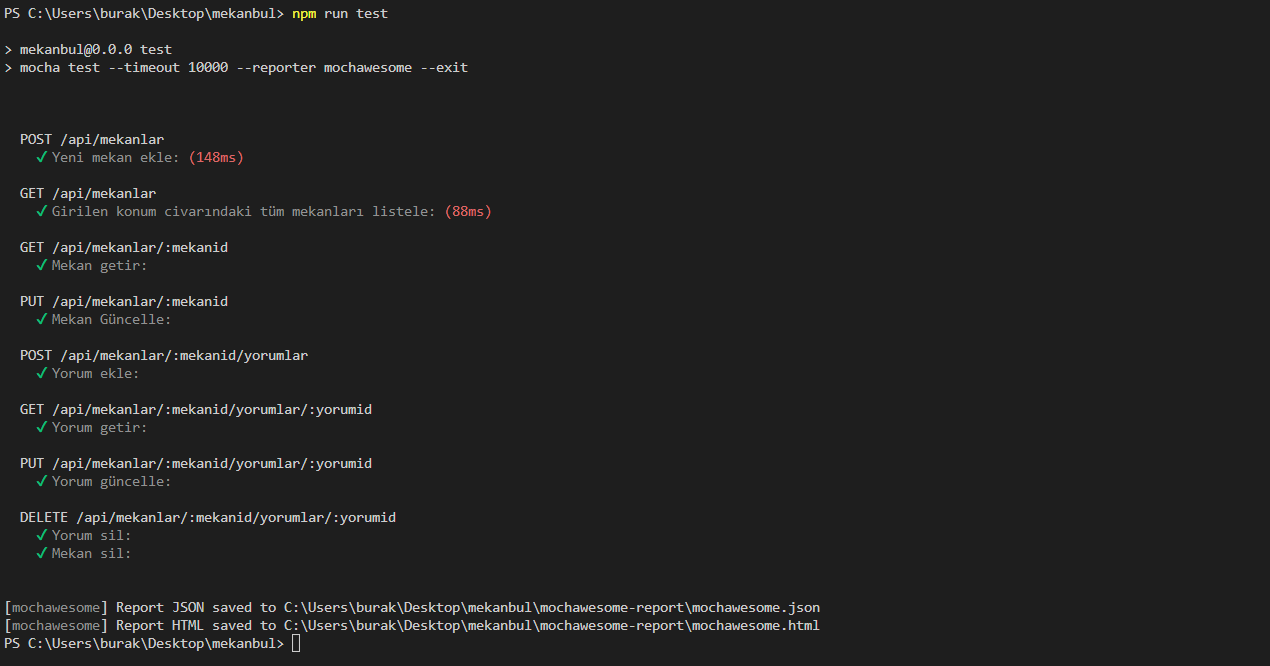
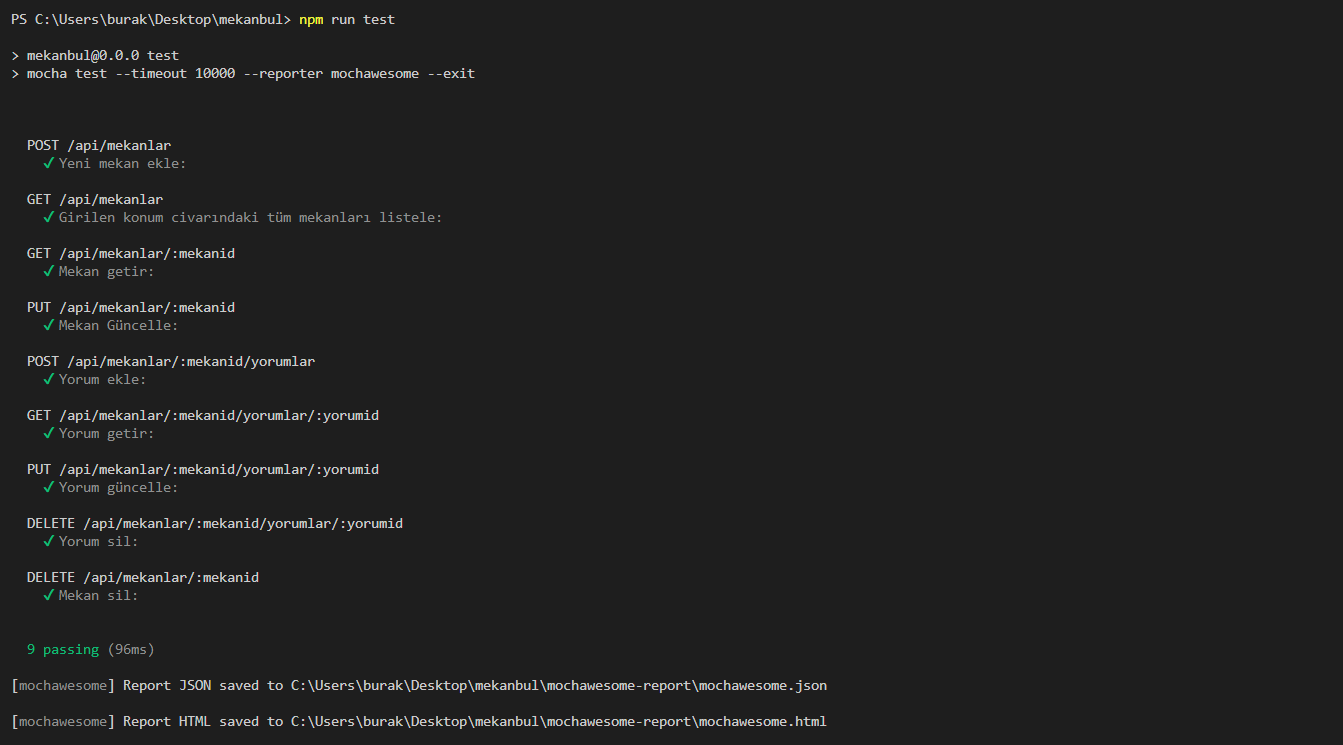
odev6

diff --git a/mochawesome-report/mochawesome.html b/mochawesome-report/mochawesome.html
@@ -1,2 +1,2 @@
 <!doctype html>
-<html lang="en"><head><meta charSet="utf-8"/><meta http-equiv="X-UA-Compatible" content="IE=edge"/><meta name="viewport" content="width=device-width, initial-scale=1"/><title>Mochawesome Report</title><link rel="stylesheet" href="assets\app.css"/></head><body data-raw="{&quot;stats&quot;:{&quot;suites&quot;:9,&quot;tests&quot;:9,&quot;passes&quot;:9,&quot;pending&quot;:0,&quot;failures&quot;:0,&quot;start&quot;:&quot;2022-11-26T20:56:56.320Z&quot;,&quot;end&quot;:&quot;2022-11-26T20:56:56.723Z&quot;,&quot;duration&quot;:403,&quot;testsRegistered&quot;:9,&quot;passPercent&quot;:100,&quot;pendingPercent&quot;:0,&quot;other&quot;:0,&quot;hasOther&quot;:false,&quot;skipped&quot;:0,&quot;hasSkipped&quot;:false},&quot;results&quot;:[{&quot;uuid&quot;:&quot;34e61f3f-44d5-4ea7-9067-2d075601692c&quot;,&quot;title&quot;:&quot;&quot;,&quot;fullFile&quot;:&quot;&quot;,&quot;file&quot;:&quot;&quot;,&quot;beforeHooks&quot;:[],&quot;afterHooks&quot;:[{&quot;title&quot;:&quot;\&quot;after all\&quot; hook in \&quot;{root}\&quot;&quot;,&quot;fullTitle&quot;:&quot;\&quot;after all\&quot; hook in \&quot;{root}\&quot;&quot;,&quot;timedOut&quot;:false,&quot;duration&quot;:0,&quot;pass&quot;:false,&quot;fail&quot;:false,&quot;pending&quot;:false,&quot;code&quot;:&quot;done();&quot;,&quot;err&quot;:{},&quot;uuid&quot;:&quot;5c890c6b-f9fb-4a4c-a901-0ae5f942bb65&quot;,&quot;parentUUID&quot;:&quot;34e61f3f-44d5-4ea7-9067-2d075601692c&quot;,&quot;isHook&quot;:true,&quot;skipped&quot;:false}],&quot;tests&quot;:[],&quot;suites&quot;:[{&quot;uuid&quot;:&quot;f4c015e0-8572-41d4-9fab-8aec1333ab47&quot;,&quot;title&quot;:&quot;POST /api/mekanlar&quot;,&quot;fullFile&quot;:&quot;C:\\Users\\burak\\Desktop\\mekanbul\\test.js&quot;,&quot;file&quot;:&quot;\\test.js&quot;,&quot;beforeHooks&quot;:[],&quot;afterHooks&quot;:[],&quot;tests&quot;:[{&quot;title&quot;:&quot;Yeni mekan ekle:&quot;,&quot;fullTitle&quot;:&quot;POST /api/mekanlar Yeni mekan ekle:&quot;,&quot;timedOut&quot;:false,&quot;duration&quot;:148,&quot;state&quot;:&quot;passed&quot;,&quot;speed&quot;:&quot;slow&quot;,&quot;pass&quot;:true,&quot;fail&quot;:false,&quot;pending&quot;:false,&quot;code&quot;:&quot;const response = await request.post(\&quot;/api/mekanlar\&quot;).send({\n  ad: \&quot;Starbucks\&quot;,\n  adres: \&quot;Centrum Garden\&quot;,\n  puan: 5,\n  imkanlar: \&quot;çay,kahve,pasta\&quot;,\n  enlem: 37.83226584629666,\n  boylam: 30.524732239878013,\n  gunler1: \&quot;Pazartesi-Cuma\&quot;,\n  acilis1: \&quot;9:00\&quot;,\n  kapanis1: \&quot;23:00\&quot;,\n  kapali1: false,\n  gunler2: \&quot;Cumartesi-Pazar\&quot;,\n  acilis2: \&quot;11:00\&quot;,\n  kapanis2: \&quot;17:00\&quot;,\n  kapali2: false,\n});\nexpect(response.status).to.eql(201);\nprocess.env.mekanid = response.body._id;&quot;,&quot;err&quot;:{},&quot;uuid&quot;:&quot;a7ffd154-9561-45e3-a937-01e1f7ece238&quot;,&quot;parentUUID&quot;:&quot;f4c015e0-8572-41d4-9fab-8aec1333ab47&quot;,&quot;isHook&quot;:false,&quot;skipped&quot;:false}],&quot;suites&quot;:[],&quot;passes&quot;:[&quot;a7ffd154-9561-45e3-a937-01e1f7ece238&quot;],&quot;failures&quot;:[],&quot;pending&quot;:[],&quot;skipped&quot;:[],&quot;duration&quot;:148,&quot;root&quot;:false,&quot;rootEmpty&quot;:false,&quot;_timeout&quot;:10000},{&quot;uuid&quot;:&quot;60758d0d-d848-4a62-b05b-a287ff86708d&quot;,&quot;title&quot;:&quot;GET /api/mekanlar&quot;,&quot;fullFile&quot;:&quot;C:\\Users\\burak\\Desktop\\mekanbul\\test.js&quot;,&quot;file&quot;:&quot;\\test.js&quot;,&quot;beforeHooks&quot;:[],&quot;afterHooks&quot;:[],&quot;tests&quot;:[{&quot;title&quot;:&quot;Girilen konum civarındaki tüm mekanları listele:&quot;,&quot;fullTitle&quot;:&quot;GET /api/mekanlar Girilen konum civarındaki tüm mekanları listele:&quot;,&quot;timedOut&quot;:false,&quot;duration&quot;:88,&quot;state&quot;:&quot;passed&quot;,&quot;speed&quot;:&quot;slow&quot;,&quot;pass&quot;:true,&quot;fail&quot;:false,&quot;pending&quot;:false,&quot;code&quot;:&quot;const response = await request.get(\&quot;/api/mekanlar?enlem=37&amp;boylam=35\&quot;);\nexpect(response.status).to.eql(200);&quot;,&quot;err&quot;:{},&quot;uuid&quot;:&quot;eb846893-ba59-4ab6-bdc3-fd59ec794ca1&quot;,&quot;parentUUID&quot;:&quot;60758d0d-d848-4a62-b05b-a287ff86708d&quot;,&quot;isHook&quot;:false,&quot;skipped&quot;:false}],&quot;suites&quot;:[],&quot;passes&quot;:[&quot;eb846893-ba59-4ab6-bdc3-fd59ec794ca1&quot;],&quot;failures&quot;:[],&quot;pending&quot;:[],&quot;skipped&quot;:[],&quot;duration&quot;:88,&quot;root&quot;:false,&quot;rootEmpty&quot;:false,&quot;_timeout&quot;:10000},{&quot;uuid&quot;:&quot;0fbc9f35-88c6-42c2-a60d-e278b5861549&quot;,&quot;title&quot;:&quot;GET /api/mekanlar/:mekanid&quot;,&quot;fullFile&quot;:&quot;C:\\Users\\burak\\Desktop\\mekanbul\\test.js&quot;,&quot;file&quot;:&quot;\\test.js&quot;,&quot;beforeHooks&quot;:[],&quot;afterHooks&quot;:[],&quot;tests&quot;:[{&quot;title&quot;:&quot;Mekan getir:&quot;,&quot;fullTitle&quot;:&quot;GET /api/mekanlar/:mekanid Mekan getir:&quot;,&quot;timedOut&quot;:false,&quot;duration&quot;:28,&quot;state&quot;:&quot;passed&quot;,&quot;speed&quot;:&quot;fast&quot;,&quot;pass&quot;:true,&quot;fail&quot;:false,&quot;pending&quot;:false,&quot;code&quot;:&quot;const response = await request.get(`/api/mekanlar/${process.env.mekanid}`);\nexpect(response.status).to.eql(200);&quot;,&quot;err&quot;:{},&quot;uuid&quot;:&quot;2ebca0b3-8e61-475c-93f2-85a8fd9dcdcf&quot;,&quot;parentUUID&quot;:&quot;0fbc9f35-88c6-42c2-a60d-e278b5861549&quot;,&quot;isHook&quot;:false,&quot;skipped&quot;:false}],&quot;suites&quot;:[],&quot;passes&quot;:[&quot;2ebca0b3-8e61-475c-93f2-85a8fd9dcdcf&quot;],&quot;failures&quot;:[],&quot;pending&quot;:[],&quot;skipped&quot;:[],&quot;duration&quot;:28,&quot;root&quot;:false,&quot;rootEmpty&quot;:false,&quot;_timeout&quot;:10000},{&quot;uuid&quot;:&quot;91e1d9c2-f25d-4f1b-a22b-bb5af435f541&quot;,&quot;title&quot;:&quot;PUT /api/mekanlar/:mekanid&quot;,&quot;fullFile&quot;:&quot;C:\\Users\\burak\\Desktop\\mekanbul\\test.js&quot;,&quot;file&quot;:&quot;\\test.js&quot;,&quot;beforeHooks&quot;:[],&quot;afterHooks&quot;:[],&quot;tests&quot;:[{&quot;title&quot;:&quot;Mekan Güncelle:&quot;,&quot;fullTitle&quot;:&quot;PUT /api/mekanlar/:mekanid Mekan Güncelle:&quot;,&quot;timedOut&quot;:false,&quot;duration&quot;:31,&quot;state&quot;:&quot;passed&quot;,&quot;speed&quot;:&quot;fast&quot;,&quot;pass&quot;:true,&quot;fail&quot;:false,&quot;pending&quot;:false,&quot;code&quot;:&quot;const response = await request\n  .put(`/api/mekanlar/${process.env.mekanid}`)\n  .send({\n    ad: \&quot;Starbucks SDÜ\&quot;,\n    adres: \&quot;SDÜ Doğu Kampüsü\&quot;,\n    puan: 3,\n    imkanlar: \&quot;çay,kahve,pasta,refresher\&quot;,\n    enlem: 37.8,\n    boylam: 30.5,\n    gunler1: \&quot;Pazartesi-Cuma\&quot;,\n    acilis1: \&quot;9:10\&quot;,\n    kapanis1: \&quot;23:10\&quot;,\n    kapali1: true,\n    gunler2: \&quot;Cumartesi-Pazar\&quot;,\n    acilis2: \&quot;11:10\&quot;,\n    kapanis2: \&quot;17:10\&quot;,\n    kapali2: true,\n  });\nexpect(response.status).to.eql(200);&quot;,&quot;err&quot;:{},&quot;uuid&quot;:&quot;c8c64f44-95c7-46fa-8c82-56cadd54a5b2&quot;,&quot;parentUUID&quot;:&quot;91e1d9c2-f25d-4f1b-a22b-bb5af435f541&quot;,&quot;isHook&quot;:false,&quot;skipped&quot;:false}],&quot;suites&quot;:[],&quot;passes&quot;:[&quot;c8c64f44-95c7-46fa-8c82-56cadd54a5b2&quot;],&quot;failures&quot;:[],&quot;pending&quot;:[],&quot;skipped&quot;:[],&quot;duration&quot;:31,&quot;root&quot;:false,&quot;rootEmpty&quot;:false,&quot;_timeout&quot;:10000},{&quot;uuid&quot;:&quot;7392dcf2-3845-450c-b7ab-8a05435781e4&quot;,&quot;title&quot;:&quot;POST /api/mekanlar/:mekanid/yorumlar&quot;,&quot;fullFile&quot;:&quot;C:\\Users\\burak\\Desktop\\mekanbul\\test.js&quot;,&quot;file&quot;:&quot;\\test.js&quot;,&quot;beforeHooks&quot;:[],&quot;afterHooks&quot;:[],&quot;tests&quot;:[{&quot;title&quot;:&quot;Yorum ekle:&quot;,&quot;fullTitle&quot;:&quot;POST /api/mekanlar/:mekanid/yorumlar Yorum ekle:&quot;,&quot;timedOut&quot;:false,&quot;duration&quot;:17,&quot;state&quot;:&quot;passed&quot;,&quot;speed&quot;:&quot;fast&quot;,&quot;pass&quot;:true,&quot;fail&quot;:false,&quot;pending&quot;:false,&quot;code&quot;:&quot;const response = await request\n  .post(`/api/mekanlar/${process.env.mekanid}/yorumlar`)\n  .send({\n    yorumYapan: \&quot;ASY\&quot;,\n    puan: 5,\n    yorumMetni: \&quot;Kahveler harika\&quot;,\n  });\nprocess.env.yorumid = response.body._id;\nexpect(response.status).to.eql(201);&quot;,&quot;err&quot;:{},&quot;uuid&quot;:&quot;7726f4a7-fe1d-4290-987c-d4a907256380&quot;,&quot;parentUUID&quot;:&quot;7392dcf2-3845-450c-b7ab-8a05435781e4&quot;,&quot;isHook&quot;:false,&quot;skipped&quot;:false}],&quot;suites&quot;:[],&quot;passes&quot;:[&quot;7726f4a7-fe1d-4290-987c-d4a907256380&quot;],&quot;failures&quot;:[],&quot;pending&quot;:[],&quot;skipped&quot;:[],&quot;duration&quot;:17,&quot;root&quot;:false,&quot;rootEmpty&quot;:false,&quot;_timeout&quot;:10000},{&quot;uuid&quot;:&quot;6ef512c4-5fad-4bd8-9b4a-e73ff3ac557c&quot;,&quot;title&quot;:&quot;GET /api/mekanlar/:mekanid/yorumlar/:yorumid&quot;,&quot;fullFile&quot;:&quot;C:\\Users\\burak\\Desktop\\mekanbul\\test.js&quot;,&quot;file&quot;:&quot;\\test.js&quot;,&quot;beforeHooks&quot;:[],&quot;afterHooks&quot;:[],&quot;tests&quot;:[{&quot;title&quot;:&quot;Yorum getir:&quot;,&quot;fullTitle&quot;:&quot;GET /api/mekanlar/:mekanid/yorumlar/:yorumid Yorum getir:&quot;,&quot;timedOut&quot;:false,&quot;duration&quot;:15,&quot;state&quot;:&quot;passed&quot;,&quot;speed&quot;:&quot;fast&quot;,&quot;pass&quot;:true,&quot;fail&quot;:false,&quot;pending&quot;:false,&quot;code&quot;:&quot;const response = await request.get(\n  `/api/mekanlar/${process.env.mekanid}/yorumlar/${process.env.yorumid}`\n);\nexpect(response.status).to.eql(200);&quot;,&quot;err&quot;:{},&quot;uuid&quot;:&quot;ada0f33e-adf7-473b-ad58-0a07c4e4f2b3&quot;,&quot;parentUUID&quot;:&quot;6ef512c4-5fad-4bd8-9b4a-e73ff3ac557c&quot;,&quot;isHook&quot;:false,&quot;skipped&quot;:false}],&quot;suites&quot;:[],&quot;passes&quot;:[&quot;ada0f33e-adf7-473b-ad58-0a07c4e4f2b3&quot;],&quot;failures&quot;:[],&quot;pending&quot;:[],&quot;skipped&quot;:[],&quot;duration&quot;:15,&quot;root&quot;:false,&quot;rootEmpty&quot;:false,&quot;_timeout&quot;:10000},{&quot;uuid&quot;:&quot;a9def962-9758-456a-9bda-bc866ab40f49&quot;,&quot;title&quot;:&quot;PUT /api/mekanlar/:mekanid/yorumlar/:yorumid&quot;,&quot;fullFile&quot;:&quot;C:\\Users\\burak\\Desktop\\mekanbul\\test.js&quot;,&quot;file&quot;:&quot;\\test.js&quot;,&quot;beforeHooks&quot;:[],&quot;afterHooks&quot;:[],&quot;tests&quot;:[{&quot;title&quot;:&quot;Yorum güncelle:&quot;,&quot;fullTitle&quot;:&quot;PUT /api/mekanlar/:mekanid/yorumlar/:yorumid Yorum güncelle:&quot;,&quot;timedOut&quot;:false,&quot;duration&quot;:13,&quot;state&quot;:&quot;passed&quot;,&quot;speed&quot;:&quot;fast&quot;,&quot;pass&quot;:true,&quot;fail&quot;:false,&quot;pending&quot;:false,&quot;code&quot;:&quot;const response = await request\n  .put(\n    `/api/mekanlar/${process.env.mekanid}/yorumlar/${process.env.yorumid}`\n  )\n  .send({\n    yorumYapan: \&quot;Sinan\&quot;,\n    puan: 4,\n    yorumMetni: \&quot;Kahveler harikaaaa\&quot;,\n  });\nexpect(response.status).to.eql(200);&quot;,&quot;err&quot;:{},&quot;uuid&quot;:&quot;715f0051-b7e3-4a60-b05f-65b7a3c74921&quot;,&quot;parentUUID&quot;:&quot;a9def962-9758-456a-9bda-bc866ab40f49&quot;,&quot;isHook&quot;:false,&quot;skipped&quot;:false}],&quot;suites&quot;:[],&quot;passes&quot;:[&quot;715f0051-b7e3-4a60-b05f-65b7a3c74921&quot;],&quot;failures&quot;:[],&quot;pending&quot;:[],&quot;skipped&quot;:[],&quot;duration&quot;:13,&quot;root&quot;:false,&quot;rootEmpty&quot;:false,&quot;_timeout&quot;:10000},{&quot;uuid&quot;:&quot;714129be-8d72-4473-9ee7-cff5075605c8&quot;,&quot;title&quot;:&quot;DELETE /api/mekanlar/:mekanid/yorumlar/:yorumid&quot;,&quot;fullFile&quot;:&quot;C:\\Users\\burak\\Desktop\\mekanbul\\test.js&quot;,&quot;file&quot;:&quot;\\test.js&quot;,&quot;beforeHooks&quot;:[],&quot;afterHooks&quot;:[],&quot;tests&quot;:[{&quot;title&quot;:&quot;Yorum sil:&quot;,&quot;fullTitle&quot;:&quot;DELETE /api/mekanlar/:mekanid/yorumlar/:yorumid Yorum sil:&quot;,&quot;timedOut&quot;:false,&quot;duration&quot;:17,&quot;state&quot;:&quot;passed&quot;,&quot;speed&quot;:&quot;fast&quot;,&quot;pass&quot;:true,&quot;fail&quot;:false,&quot;pending&quot;:false,&quot;code&quot;:&quot;const response = await request.delete(\n  `/api/mekanlar/${process.env.mekanid}/yorumlar/${process.env.yorumid}`\n);\nexpect(response.status).to.eql(200);&quot;,&quot;err&quot;:{},&quot;uuid&quot;:&quot;aca8cf63-d23f-4dd1-a53b-e01d394636e6&quot;,&quot;parentUUID&quot;:&quot;714129be-8d72-4473-9ee7-cff5075605c8&quot;,&quot;isHook&quot;:false,&quot;skipped&quot;:false}],&quot;suites&quot;:[],&quot;passes&quot;:[&quot;aca8cf63-d23f-4dd1-a53b-e01d394636e6&quot;],&quot;failures&quot;:[],&quot;pending&quot;:[],&quot;skipped&quot;:[],&quot;duration&quot;:17,&quot;root&quot;:false,&quot;rootEmpty&quot;:false,&quot;_timeout&quot;:10000},{&quot;uuid&quot;:&quot;6a613a49-5b63-4a3a-bbfc-c679bceace08&quot;,&quot;title&quot;:&quot;DELETE /api/mekanlar/:mekanid&quot;,&quot;fullFile&quot;:&quot;C:\\Users\\burak\\Desktop\\mekanbul\\test.js&quot;,&quot;file&quot;:&quot;\\test.js&quot;,&quot;beforeHooks&quot;:[],&quot;afterHooks&quot;:[],&quot;tests&quot;:[{&quot;title&quot;:&quot;Mekan sil:&quot;,&quot;fullTitle&quot;:&quot;DELETE /api/mekanlar/:mekanid Mekan sil:&quot;,&quot;timedOut&quot;:false,&quot;duration&quot;:15,&quot;state&quot;:&quot;passed&quot;,&quot;speed&quot;:&quot;fast&quot;,&quot;pass&quot;:true,&quot;fail&quot;:false,&quot;pending&quot;:false,&quot;code&quot;:&quot;const response = await request.delete(\n  `/api/mekanlar/${process.env.mekanid}`\n);\nexpect(response.status).to.eql(200);&quot;,&quot;err&quot;:{},&quot;uuid&quot;:&quot;1bc56d74-c4be-4c67-99a3-8e12e19d6796&quot;,&quot;parentUUID&quot;:&quot;6a613a49-5b63-4a3a-bbfc-c679bceace08&quot;,&quot;isHook&quot;:false,&quot;skipped&quot;:false}],&quot;suites&quot;:[],&quot;passes&quot;:[&quot;1bc56d74-c4be-4c67-99a3-8e12e19d6796&quot;],&quot;failures&quot;:[],&quot;pending&quot;:[],&quot;skipped&quot;:[],&quot;duration&quot;:15,&quot;root&quot;:false,&quot;rootEmpty&quot;:false,&quot;_timeout&quot;:10000}],&quot;passes&quot;:[],&quot;failures&quot;:[],&quot;pending&quot;:[],&quot;skipped&quot;:[],&quot;duration&quot;:0,&quot;root&quot;:true,&quot;rootEmpty&quot;:true,&quot;_timeout&quot;:10000}],&quot;meta&quot;:{&quot;mocha&quot;:{&quot;version&quot;:&quot;10.1.0&quot;},&quot;mochawesome&quot;:{&quot;options&quot;:{&quot;quiet&quot;:false,&quot;reportFilename&quot;:&quot;mochawesome&quot;,&quot;saveHtml&quot;:true,&quot;saveJson&quot;:true,&quot;consoleReporter&quot;:&quot;spec&quot;,&quot;useInlineDiffs&quot;:false,&quot;code&quot;:true},&quot;version&quot;:&quot;7.1.3&quot;},&quot;marge&quot;:{&quot;version&quot;:&quot;6.2.0&quot;}}}" data-config="{&quot;reportFilename&quot;:&quot;mochawesome&quot;,&quot;reportDir&quot;:&quot;mochawesome-report&quot;,&quot;reportTitle&quot;:&quot;mekanbul&quot;,&quot;reportPageTitle&quot;:&quot;Mochawesome Report&quot;,&quot;inline&quot;:false,&quot;inlineAssets&quot;:false,&quot;cdn&quot;:false,&quot;charts&quot;:false,&quot;enableCharts&quot;:false,&quot;code&quot;:true,&quot;enableCode&quot;:true,&quot;autoOpen&quot;:false,&quot;overwrite&quot;:true,&quot;timestamp&quot;:false,&quot;ts&quot;:false,&quot;showPassed&quot;:true,&quot;showFailed&quot;:true,&quot;showPending&quot;:true,&quot;showSkipped&quot;:false,&quot;showHooks&quot;:&quot;failed&quot;,&quot;saveJson&quot;:true,&quot;saveHtml&quot;:true,&quot;dev&quot;:false,&quot;assetsDir&quot;:&quot;mochawesome-report\\assets&quot;,&quot;jsonFile&quot;:&quot;C:\\Users\\burak\\Desktop\\mekanbul\\mochawesome-report\\mochawesome.json&quot;,&quot;htmlFile&quot;:&quot;C:\\Users\\burak\\Desktop\\mekanbul\\mochawesome-report\\mochawesome.html&quot;}"><div id="report"></div><script src="assets\app.js"></script></body></html>
+<html lang="en"><head><meta charSet="utf-8"/><meta http-equiv="X-UA-Compatible" content="IE=edge"/><meta name="viewport" content="width=device-width, initial-scale=1"/><title>Mochawesome Report</title><link rel="stylesheet" href="assets\app.css"/></head><body data-raw="{&quot;stats&quot;:{&quot;suites&quot;:9,&quot;tests&quot;:9,&quot;passes&quot;:9,&quot;pending&quot;:0,&quot;failures&quot;:0,&quot;start&quot;:&quot;2022-11-26T22:17:13.871Z&quot;,&quot;end&quot;:&quot;2022-11-26T22:17:13.967Z&quot;,&quot;duration&quot;:96,&quot;testsRegistered&quot;:9,&quot;passPercent&quot;:100,&quot;pendingPercent&quot;:0,&quot;other&quot;:0,&quot;hasOther&quot;:false,&quot;skipped&quot;:0,&quot;hasSkipped&quot;:false},&quot;results&quot;:[{&quot;uuid&quot;:&quot;38cae508-f0c8-4382-85b5-db4a34dcbb6f&quot;,&quot;title&quot;:&quot;&quot;,&quot;fullFile&quot;:&quot;&quot;,&quot;file&quot;:&quot;&quot;,&quot;beforeHooks&quot;:[],&quot;afterHooks&quot;:[{&quot;title&quot;:&quot;\&quot;after all\&quot; hook in \&quot;{root}\&quot;&quot;,&quot;fullTitle&quot;:&quot;\&quot;after all\&quot; hook in \&quot;{root}\&quot;&quot;,&quot;timedOut&quot;:false,&quot;duration&quot;:1,&quot;pass&quot;:false,&quot;fail&quot;:false,&quot;pending&quot;:false,&quot;code&quot;:&quot;done();&quot;,&quot;err&quot;:{},&quot;uuid&quot;:&quot;818f001e-152f-4aab-94fc-fe0a1640f250&quot;,&quot;parentUUID&quot;:&quot;38cae508-f0c8-4382-85b5-db4a34dcbb6f&quot;,&quot;isHook&quot;:true,&quot;skipped&quot;:false}],&quot;tests&quot;:[],&quot;suites&quot;:[{&quot;uuid&quot;:&quot;b216f4e0-9f5d-405d-99b0-8db1f0722a14&quot;,&quot;title&quot;:&quot;POST /api/mekanlar&quot;,&quot;fullFile&quot;:&quot;C:\\Users\\burak\\Desktop\\mekanbul\\test.js&quot;,&quot;file&quot;:&quot;\\test.js&quot;,&quot;beforeHooks&quot;:[],&quot;afterHooks&quot;:[],&quot;tests&quot;:[{&quot;title&quot;:&quot;Yeni mekan ekle:&quot;,&quot;fullTitle&quot;:&quot;POST /api/mekanlar Yeni mekan ekle:&quot;,&quot;timedOut&quot;:false,&quot;duration&quot;:28,&quot;state&quot;:&quot;passed&quot;,&quot;speed&quot;:&quot;fast&quot;,&quot;pass&quot;:true,&quot;fail&quot;:false,&quot;pending&quot;:false,&quot;code&quot;:&quot;const response = await request.post(\&quot;/api/mekanlar\&quot;).send({\n  ad: \&quot;Starbucks\&quot;,\n  adres: \&quot;Centrum Garden\&quot;,\n  puan: 5,\n  imkanlar: \&quot;çay,kahve,pasta\&quot;,\n  enlem: 37.83226584629666,\n  boylam: 30.524732239878013,\n  gunler1: \&quot;Pazartesi-Cuma\&quot;,\n  acilis1: \&quot;9:00\&quot;,\n  kapanis1: \&quot;23:00\&quot;,\n  kapali1: false,\n  gunler2: \&quot;Cumartesi-Pazar\&quot;,\n  acilis2: \&quot;11:00\&quot;,\n  kapanis2: \&quot;17:00\&quot;,\n  kapali2: false,\n});\nexpect(response.status).to.eql(201);\nprocess.env.mekanid = response.body._id;&quot;,&quot;err&quot;:{},&quot;uuid&quot;:&quot;5d582b40-f73c-481f-8b1a-af11070c9cf0&quot;,&quot;parentUUID&quot;:&quot;b216f4e0-9f5d-405d-99b0-8db1f0722a14&quot;,&quot;isHook&quot;:false,&quot;skipped&quot;:false}],&quot;suites&quot;:[],&quot;passes&quot;:[&quot;5d582b40-f73c-481f-8b1a-af11070c9cf0&quot;],&quot;failures&quot;:[],&quot;pending&quot;:[],&quot;skipped&quot;:[],&quot;duration&quot;:28,&quot;root&quot;:false,&quot;rootEmpty&quot;:false,&quot;_timeout&quot;:10000},{&quot;uuid&quot;:&quot;b0bdf52f-c661-4d3f-b23e-cf60c6ee1645&quot;,&quot;title&quot;:&quot;GET /api/mekanlar&quot;,&quot;fullFile&quot;:&quot;C:\\Users\\burak\\Desktop\\mekanbul\\test.js&quot;,&quot;file&quot;:&quot;\\test.js&quot;,&quot;beforeHooks&quot;:[],&quot;afterHooks&quot;:[],&quot;tests&quot;:[{&quot;title&quot;:&quot;Girilen konum civarındaki tüm mekanları listele:&quot;,&quot;fullTitle&quot;:&quot;GET /api/mekanlar Girilen konum civarındaki tüm mekanları listele:&quot;,&quot;timedOut&quot;:false,&quot;duration&quot;:8,&quot;state&quot;:&quot;passed&quot;,&quot;speed&quot;:&quot;fast&quot;,&quot;pass&quot;:true,&quot;fail&quot;:false,&quot;pending&quot;:false,&quot;code&quot;:&quot;const response = await request.get(\&quot;/api/mekanlar?enlem=37&amp;boylam=35\&quot;);\nexpect(response.status).to.eql(200);&quot;,&quot;err&quot;:{},&quot;uuid&quot;:&quot;1b50ec3a-4443-4330-b372-d345cd0e4536&quot;,&quot;parentUUID&quot;:&quot;b0bdf52f-c661-4d3f-b23e-cf60c6ee1645&quot;,&quot;isHook&quot;:false,&quot;skipped&quot;:false}],&quot;suites&quot;:[],&quot;passes&quot;:[&quot;1b50ec3a-4443-4330-b372-d345cd0e4536&quot;],&quot;failures&quot;:[],&quot;pending&quot;:[],&quot;skipped&quot;:[],&quot;duration&quot;:8,&quot;root&quot;:false,&quot;rootEmpty&quot;:false,&quot;_timeout&quot;:10000},{&quot;uuid&quot;:&quot;204fe498-6edf-4c90-bf6e-8c637634ec0f&quot;,&quot;title&quot;:&quot;GET /api/mekanlar/:mekanid&quot;,&quot;fullFile&quot;:&quot;C:\\Users\\burak\\Desktop\\mekanbul\\test.js&quot;,&quot;file&quot;:&quot;\\test.js&quot;,&quot;beforeHooks&quot;:[],&quot;afterHooks&quot;:[],&quot;tests&quot;:[{&quot;title&quot;:&quot;Mekan getir:&quot;,&quot;fullTitle&quot;:&quot;GET /api/mekanlar/:mekanid Mekan getir:&quot;,&quot;timedOut&quot;:false,&quot;duration&quot;:4,&quot;state&quot;:&quot;passed&quot;,&quot;speed&quot;:&quot;fast&quot;,&quot;pass&quot;:true,&quot;fail&quot;:false,&quot;pending&quot;:false,&quot;code&quot;:&quot;const response = await request.get(`/api/mekanlar/${process.env.mekanid}`);\nexpect(response.status).to.eql(200);&quot;,&quot;err&quot;:{},&quot;uuid&quot;:&quot;0ea3912e-4791-4cfa-bb61-c469eaae343d&quot;,&quot;parentUUID&quot;:&quot;204fe498-6edf-4c90-bf6e-8c637634ec0f&quot;,&quot;isHook&quot;:false,&quot;skipped&quot;:false}],&quot;suites&quot;:[],&quot;passes&quot;:[&quot;0ea3912e-4791-4cfa-bb61-c469eaae343d&quot;],&quot;failures&quot;:[],&quot;pending&quot;:[],&quot;skipped&quot;:[],&quot;duration&quot;:4,&quot;root&quot;:false,&quot;rootEmpty&quot;:false,&quot;_timeout&quot;:10000},{&quot;uuid&quot;:&quot;7626d9e2-a9e9-4cee-862c-e6a4b38362e7&quot;,&quot;title&quot;:&quot;PUT /api/mekanlar/:mekanid&quot;,&quot;fullFile&quot;:&quot;C:\\Users\\burak\\Desktop\\mekanbul\\test.js&quot;,&quot;file&quot;:&quot;\\test.js&quot;,&quot;beforeHooks&quot;:[],&quot;afterHooks&quot;:[],&quot;tests&quot;:[{&quot;title&quot;:&quot;Mekan Güncelle:&quot;,&quot;fullTitle&quot;:&quot;PUT /api/mekanlar/:mekanid Mekan Güncelle:&quot;,&quot;timedOut&quot;:false,&quot;duration&quot;:10,&quot;state&quot;:&quot;passed&quot;,&quot;speed&quot;:&quot;fast&quot;,&quot;pass&quot;:true,&quot;fail&quot;:false,&quot;pending&quot;:false,&quot;code&quot;:&quot;const response = await request\n  .put(`/api/mekanlar/${process.env.mekanid}`)\n  .send({\n    ad: \&quot;Starbucks SDÜ\&quot;,\n    adres: \&quot;SDÜ Doğu Kampüsü\&quot;,\n    puan: 3,\n    imkanlar: \&quot;çay,kahve,pasta,refresher\&quot;,\n    enlem: 37.8,\n    boylam: 30.5,\n    gunler1: \&quot;Pazartesi-Cuma\&quot;,\n    acilis1: \&quot;9:10\&quot;,\n    kapanis1: \&quot;23:10\&quot;,\n    kapali1: true,\n    gunler2: \&quot;Cumartesi-Pazar\&quot;,\n    acilis2: \&quot;11:10\&quot;,\n    kapanis2: \&quot;17:10\&quot;,\n    kapali2: true,\n  });\nexpect(response.status).to.eql(200);&quot;,&quot;err&quot;:{},&quot;uuid&quot;:&quot;51755271-90bc-4e11-b398-9f70161bed09&quot;,&quot;parentUUID&quot;:&quot;7626d9e2-a9e9-4cee-862c-e6a4b38362e7&quot;,&quot;isHook&quot;:false,&quot;skipped&quot;:false}],&quot;suites&quot;:[],&quot;passes&quot;:[&quot;51755271-90bc-4e11-b398-9f70161bed09&quot;],&quot;failures&quot;:[],&quot;pending&quot;:[],&quot;skipped&quot;:[],&quot;duration&quot;:10,&quot;root&quot;:false,&quot;rootEmpty&quot;:false,&quot;_timeout&quot;:10000},{&quot;uuid&quot;:&quot;bea4e59f-6ef4-4f20-877b-24dd337ba841&quot;,&quot;title&quot;:&quot;POST /api/mekanlar/:mekanid/yorumlar&quot;,&quot;fullFile&quot;:&quot;C:\\Users\\burak\\Desktop\\mekanbul\\test.js&quot;,&quot;file&quot;:&quot;\\test.js&quot;,&quot;beforeHooks&quot;:[],&quot;afterHooks&quot;:[],&quot;tests&quot;:[{&quot;title&quot;:&quot;Yorum ekle:&quot;,&quot;fullTitle&quot;:&quot;POST /api/mekanlar/:mekanid/yorumlar Yorum ekle:&quot;,&quot;timedOut&quot;:false,&quot;duration&quot;:7,&quot;state&quot;:&quot;passed&quot;,&quot;speed&quot;:&quot;fast&quot;,&quot;pass&quot;:true,&quot;fail&quot;:false,&quot;pending&quot;:false,&quot;code&quot;:&quot;const response = await request\n  .post(`/api/mekanlar/${process.env.mekanid}/yorumlar`)\n  .send({\n    yorumYapan: \&quot;ASY\&quot;,\n    puan: 5,\n    yorumMetni: \&quot;Kahveler harika\&quot;,\n  });\nprocess.env.yorumid = response.body._id;\nexpect(response.status).to.eql(201);&quot;,&quot;err&quot;:{},&quot;uuid&quot;:&quot;43245a16-6e98-40da-945d-6a42a606f9f9&quot;,&quot;parentUUID&quot;:&quot;bea4e59f-6ef4-4f20-877b-24dd337ba841&quot;,&quot;isHook&quot;:false,&quot;skipped&quot;:false}],&quot;suites&quot;:[],&quot;passes&quot;:[&quot;43245a16-6e98-40da-945d-6a42a606f9f9&quot;],&quot;failures&quot;:[],&quot;pending&quot;:[],&quot;skipped&quot;:[],&quot;duration&quot;:7,&quot;root&quot;:false,&quot;rootEmpty&quot;:false,&quot;_timeout&quot;:10000},{&quot;uuid&quot;:&quot;98a75575-5e47-43c7-997d-547944797791&quot;,&quot;title&quot;:&quot;GET /api/mekanlar/:mekanid/yorumlar/:yorumid&quot;,&quot;fullFile&quot;:&quot;C:\\Users\\burak\\Desktop\\mekanbul\\test.js&quot;,&quot;file&quot;:&quot;\\test.js&quot;,&quot;beforeHooks&quot;:[],&quot;afterHooks&quot;:[],&quot;tests&quot;:[{&quot;title&quot;:&quot;Yorum getir:&quot;,&quot;fullTitle&quot;:&quot;GET /api/mekanlar/:mekanid/yorumlar/:yorumid Yorum getir:&quot;,&quot;timedOut&quot;:false,&quot;duration&quot;:5,&quot;state&quot;:&quot;passed&quot;,&quot;speed&quot;:&quot;fast&quot;,&quot;pass&quot;:true,&quot;fail&quot;:false,&quot;pending&quot;:false,&quot;code&quot;:&quot;const response = await request.get(\n  `/api/mekanlar/${process.env.mekanid}/yorumlar/${process.env.yorumid}`\n);\nexpect(response.status).to.eql(200);&quot;,&quot;err&quot;:{},&quot;uuid&quot;:&quot;3843890a-54b2-479a-895a-f3fdc169ccf9&quot;,&quot;parentUUID&quot;:&quot;98a75575-5e47-43c7-997d-547944797791&quot;,&quot;isHook&quot;:false,&quot;skipped&quot;:false}],&quot;suites&quot;:[],&quot;passes&quot;:[&quot;3843890a-54b2-479a-895a-f3fdc169ccf9&quot;],&quot;failures&quot;:[],&quot;pending&quot;:[],&quot;skipped&quot;:[],&quot;duration&quot;:5,&quot;root&quot;:false,&quot;rootEmpty&quot;:false,&quot;_timeout&quot;:10000},{&quot;uuid&quot;:&quot;e13bb13f-9be2-487c-a3e8-d5f4ff32f3fe&quot;,&quot;title&quot;:&quot;PUT /api/mekanlar/:mekanid/yorumlar/:yorumid&quot;,&quot;fullFile&quot;:&quot;C:\\Users\\burak\\Desktop\\mekanbul\\test.js&quot;,&quot;file&quot;:&quot;\\test.js&quot;,&quot;beforeHooks&quot;:[],&quot;afterHooks&quot;:[],&quot;tests&quot;:[{&quot;title&quot;:&quot;Yorum güncelle:&quot;,&quot;fullTitle&quot;:&quot;PUT /api/mekanlar/:mekanid/yorumlar/:yorumid Yorum güncelle:&quot;,&quot;timedOut&quot;:false,&quot;duration&quot;:7,&quot;state&quot;:&quot;passed&quot;,&quot;speed&quot;:&quot;fast&quot;,&quot;pass&quot;:true,&quot;fail&quot;:false,&quot;pending&quot;:false,&quot;code&quot;:&quot;const response = await request\n  .put(\n    `/api/mekanlar/${process.env.mekanid}/yorumlar/${process.env.yorumid}`\n  )\n  .send({\n    yorumYapan: \&quot;Sinan\&quot;,\n    puan: 4,\n    yorumMetni: \&quot;Kahveler harikaaaa\&quot;,\n  });\nexpect(response.status).to.eql(200);&quot;,&quot;err&quot;:{},&quot;uuid&quot;:&quot;a02f91db-bc5b-4006-b017-23b752779bf1&quot;,&quot;parentUUID&quot;:&quot;e13bb13f-9be2-487c-a3e8-d5f4ff32f3fe&quot;,&quot;isHook&quot;:false,&quot;skipped&quot;:false}],&quot;suites&quot;:[],&quot;passes&quot;:[&quot;a02f91db-bc5b-4006-b017-23b752779bf1&quot;],&quot;failures&quot;:[],&quot;pending&quot;:[],&quot;skipped&quot;:[],&quot;duration&quot;:7,&quot;root&quot;:false,&quot;rootEmpty&quot;:false,&quot;_timeout&quot;:10000},{&quot;uuid&quot;:&quot;c3e60a95-d6dc-492b-bc79-9e9d75a36373&quot;,&quot;title&quot;:&quot;DELETE /api/mekanlar/:mekanid/yorumlar/:yorumid&quot;,&quot;fullFile&quot;:&quot;C:\\Users\\burak\\Desktop\\mekanbul\\test.js&quot;,&quot;file&quot;:&quot;\\test.js&quot;,&quot;beforeHooks&quot;:[],&quot;afterHooks&quot;:[],&quot;tests&quot;:[{&quot;title&quot;:&quot;Yorum sil:&quot;,&quot;fullTitle&quot;:&quot;DELETE /api/mekanlar/:mekanid/yorumlar/:yorumid Yorum sil:&quot;,&quot;timedOut&quot;:false,&quot;duration&quot;:7,&quot;state&quot;:&quot;passed&quot;,&quot;speed&quot;:&quot;fast&quot;,&quot;pass&quot;:true,&quot;fail&quot;:false,&quot;pending&quot;:false,&quot;code&quot;:&quot;const response = await request.delete(\n  `/api/mekanlar/${process.env.mekanid}/yorumlar/${process.env.yorumid}`\n);\nexpect(response.status).to.eql(200);&quot;,&quot;err&quot;:{},&quot;uuid&quot;:&quot;741504d8-2497-4915-b231-64b10a79adfb&quot;,&quot;parentUUID&quot;:&quot;c3e60a95-d6dc-492b-bc79-9e9d75a36373&quot;,&quot;isHook&quot;:false,&quot;skipped&quot;:false}],&quot;suites&quot;:[],&quot;passes&quot;:[&quot;741504d8-2497-4915-b231-64b10a79adfb&quot;],&quot;failures&quot;:[],&quot;pending&quot;:[],&quot;skipped&quot;:[],&quot;duration&quot;:7,&quot;root&quot;:false,&quot;rootEmpty&quot;:false,&quot;_timeout&quot;:10000},{&quot;uuid&quot;:&quot;378e091c-1e0b-40ec-ace7-814da6bd1b0d&quot;,&quot;title&quot;:&quot;DELETE /api/mekanlar/:mekanid&quot;,&quot;fullFile&quot;:&quot;C:\\Users\\burak\\Desktop\\mekanbul\\test.js&quot;,&quot;file&quot;:&quot;\\test.js&quot;,&quot;beforeHooks&quot;:[],&quot;afterHooks&quot;:[],&quot;tests&quot;:[{&quot;title&quot;:&quot;Mekan sil:&quot;,&quot;fullTitle&quot;:&quot;DELETE /api/mekanlar/:mekanid Mekan sil:&quot;,&quot;timedOut&quot;:false,&quot;duration&quot;:5,&quot;state&quot;:&quot;passed&quot;,&quot;speed&quot;:&quot;fast&quot;,&quot;pass&quot;:true,&quot;fail&quot;:false,&quot;pending&quot;:false,&quot;code&quot;:&quot;const response = await request.delete(\n  `/api/mekanlar/${process.env.mekanid}`\n);\nexpect(response.status).to.eql(200);&quot;,&quot;err&quot;:{},&quot;uuid&quot;:&quot;ecdc8105-1337-40be-a0ce-b6c98375e25f&quot;,&quot;parentUUID&quot;:&quot;378e091c-1e0b-40ec-ace7-814da6bd1b0d&quot;,&quot;isHook&quot;:false,&quot;skipped&quot;:false}],&quot;suites&quot;:[],&quot;passes&quot;:[&quot;ecdc8105-1337-40be-a0ce-b6c98375e25f&quot;],&quot;failures&quot;:[],&quot;pending&quot;:[],&quot;skipped&quot;:[],&quot;duration&quot;:5,&quot;root&quot;:false,&quot;rootEmpty&quot;:false,&quot;_timeout&quot;:10000}],&quot;passes&quot;:[],&quot;failures&quot;:[],&quot;pending&quot;:[],&quot;skipped&quot;:[],&quot;duration&quot;:0,&quot;root&quot;:true,&quot;rootEmpty&quot;:true,&quot;_timeout&quot;:10000}],&quot;meta&quot;:{&quot;mocha&quot;:{&quot;version&quot;:&quot;10.1.0&quot;},&quot;mochawesome&quot;:{&quot;options&quot;:{&quot;quiet&quot;:false,&quot;reportFilename&quot;:&quot;mochawesome&quot;,&quot;saveHtml&quot;:true,&quot;saveJson&quot;:true,&quot;consoleReporter&quot;:&quot;spec&quot;,&quot;useInlineDiffs&quot;:false,&quot;code&quot;:true},&quot;version&quot;:&quot;7.1.3&quot;},&quot;marge&quot;:{&quot;version&quot;:&quot;6.2.0&quot;}}}" data-config="{&quot;reportFilename&quot;:&quot;mochawesome&quot;,&quot;reportDir&quot;:&quot;mochawesome-report&quot;,&quot;reportTitle&quot;:&quot;mekanbul&quot;,&quot;reportPageTitle&quot;:&quot;Mochawesome Report&quot;,&quot;inline&quot;:false,&quot;inlineAssets&quot;:false,&quot;cdn&quot;:false,&quot;charts&quot;:false,&quot;enableCharts&quot;:false,&quot;code&quot;:true,&quot;enableCode&quot;:true,&quot;autoOpen&quot;:false,&quot;overwrite&quot;:true,&quot;timestamp&quot;:false,&quot;ts&quot;:false,&quot;showPassed&quot;:true,&quot;showFailed&quot;:true,&quot;showPending&quot;:true,&quot;showSkipped&quot;:false,&quot;showHooks&quot;:&quot;failed&quot;,&quot;saveJson&quot;:true,&quot;saveHtml&quot;:true,&quot;dev&quot;:false,&quot;assetsDir&quot;:&quot;mochawesome-report\\assets&quot;,&quot;jsonFile&quot;:&quot;C:\\Users\\burak\\Desktop\\mekanbul\\mochawesome-report\\mochawesome.json&quot;,&quot;htmlFile&quot;:&quot;C:\\Users\\burak\\Desktop\\mekanbul\\mochawesome-report\\mochawesome.html&quot;}"><div id="report"></div><script src="assets\app.js"></script></body></html>
